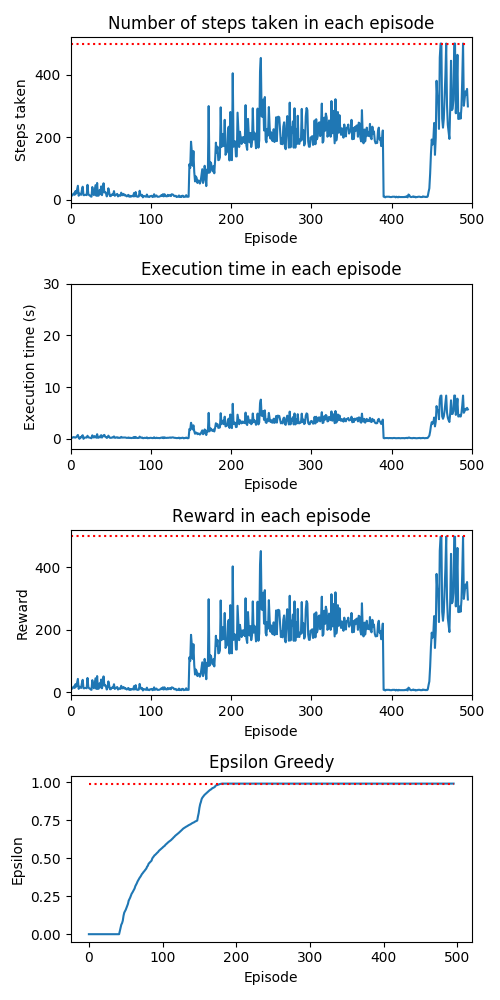
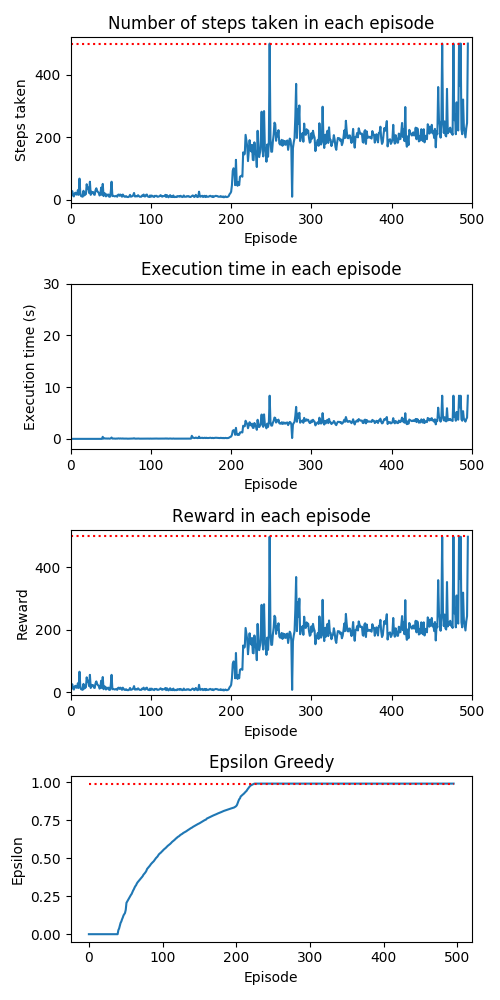
cartpole working

diff --git a/run_main.py b/run_main.py
@@ -188,13 +188,14 @@ for episode in range(int(args.episodes)):
 
         # takes a step
         next_observation, reward, done, _ = env.step(action_mapped)
+        
         episode_frames.append(next_observation)
 
         if args.environment == 'CartPole-v1':
             # punish if terminal state reached
             if done:
                 reward = -reward
-
+        # print('reward = ', reward)
         # appending <s, a, r, s', d> into arrays for storage
                 
         states.append(observation)
@@ -215,12 +216,14 @@ for episode in range(int(args.episodes)):
             avg_reward = np.mean(reward_episode)
             # append each <s, a, r, s', d> to learner.transitons for each game round
             for i in range(game_step):
-                # print(i)
+                # print(i) 
                 # print(states[i])
                 learner.transitions.append((states[i], actions[i], reward_array[i],next_states[i],dones[i]))
                 # print('reward = ', reward_array[i])
+                # print(len(learner.transitions))
 
-            print('Completed Episode = ' + str(episode), ' epsilon =', "%.4f" % learner.epsilon, ', steps = ', step, ' avg reward = ', "%.4f" % avg_reward)
+            print('Completed Episode = ' + str(episode), ' epsilon =', "%.4f" % learner.epsilon, ', steps = ', step)
+            # print( ' avg reward = ', "%.4f" % avg_reward)
             # print('\n')
 
             # empty arrays after each round is complete
@@ -233,8 +236,9 @@ for episode in range(int(args.episodes)):
 
         observation = next_observation
         
-    # train algorithm using experience replay
-    learner.memory_replay(episode)
+        if args.environment == 'CartPole-v1':
+            # train algorithm using experience replay
+            learner.memory_replay(episode)
         
     # make gif
     # if episode != 0 and episode % 5 == 0:

diff --git a/DQN/Brain.py b/DQN/Brain.py
@@ -151,5 +151,5 @@ class Learning():
         self.epsilon = 1 - 5.45 ** (-0.009 * (episode - 100))
         self.e_greedy_formula = 'e = 1-5.45^(-0.009*(episode-100))'
 
-        print("FINISHED REPLAY")
+        # print("FINISHED REPLAY")
         

diff --git a/README.md b/README.md
@@ -15,6 +15,40 @@
 - matplotlib
 - imageio
 
+----------------
+### Files Overview
+
+``` bash
+
+# Bash scripts
+    run.sh
+    
+    runme.sh 
+    testbed.txt
+
+# Execution scripts 
+    run_main.py
+
+# Environment State Preprocessing
+    /Preprocess     # folder
+        Cartpole_Preprocess.py
+        Pong_Preprocess.py
+        _Preprocess
+        _Preprocess
+        _Preprocess
+
+# RL Algorithms
+    /DQN
+        brain.py
+        network.py
+
+# Saving training data
+    
+
+
+```
+
+
 
 ----------------
 
